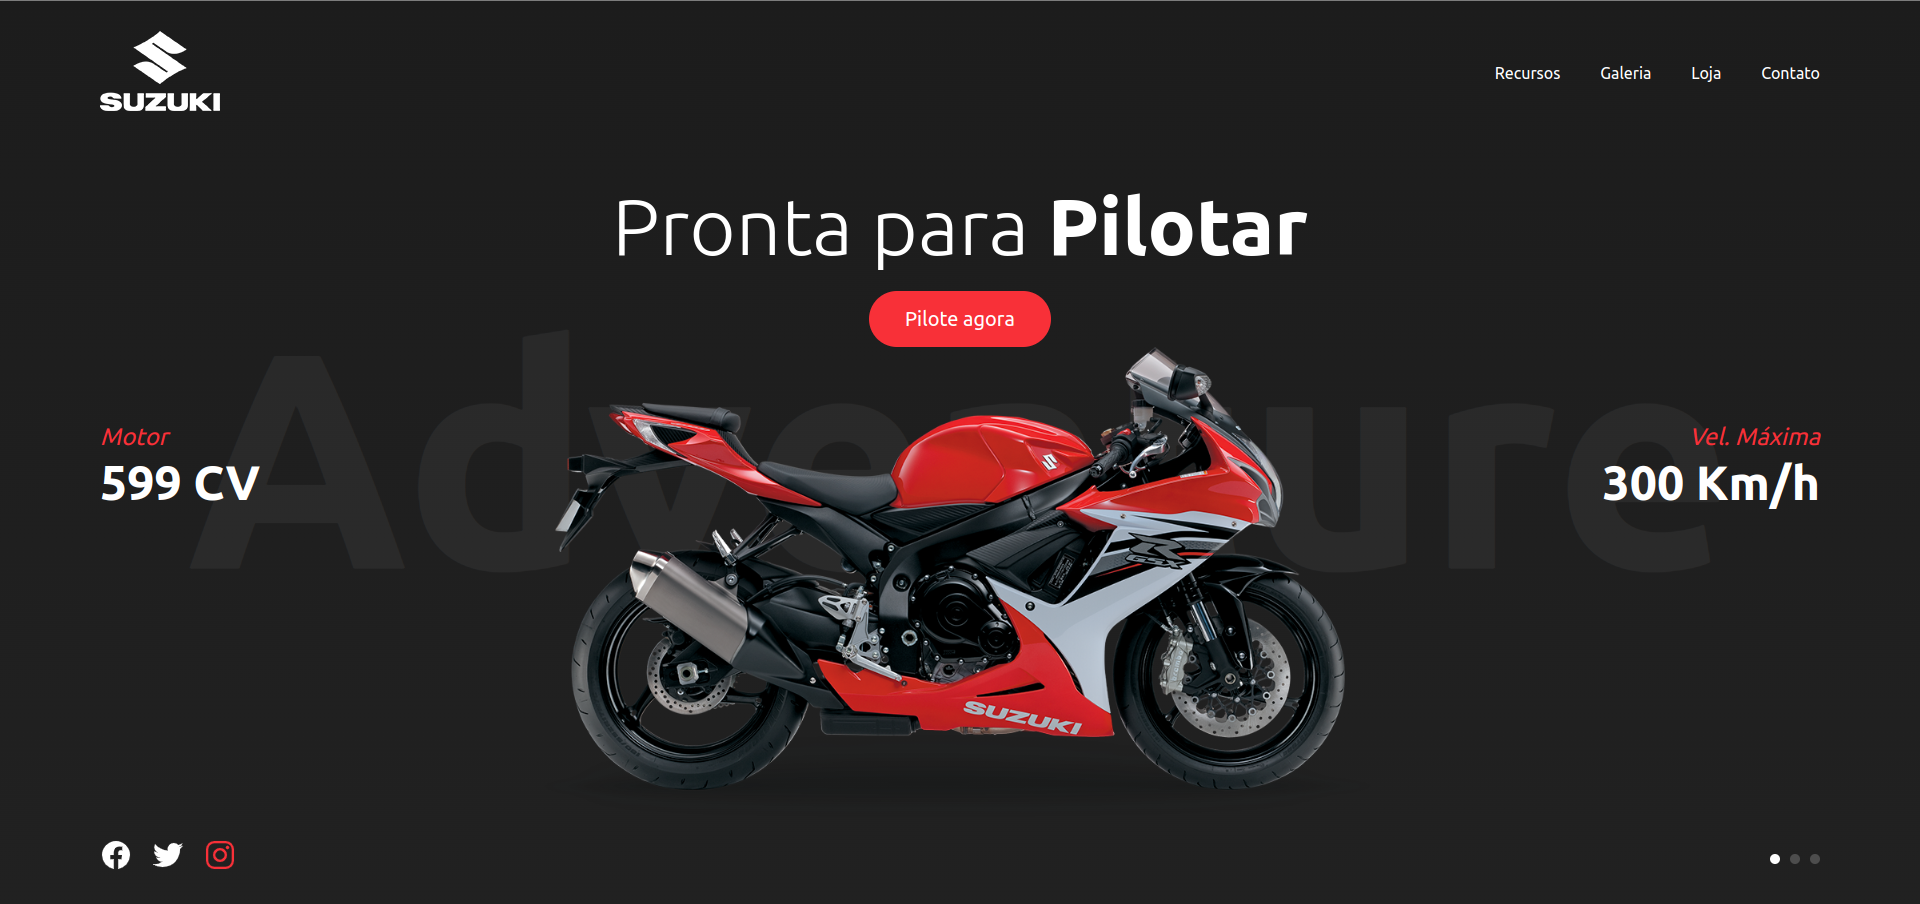
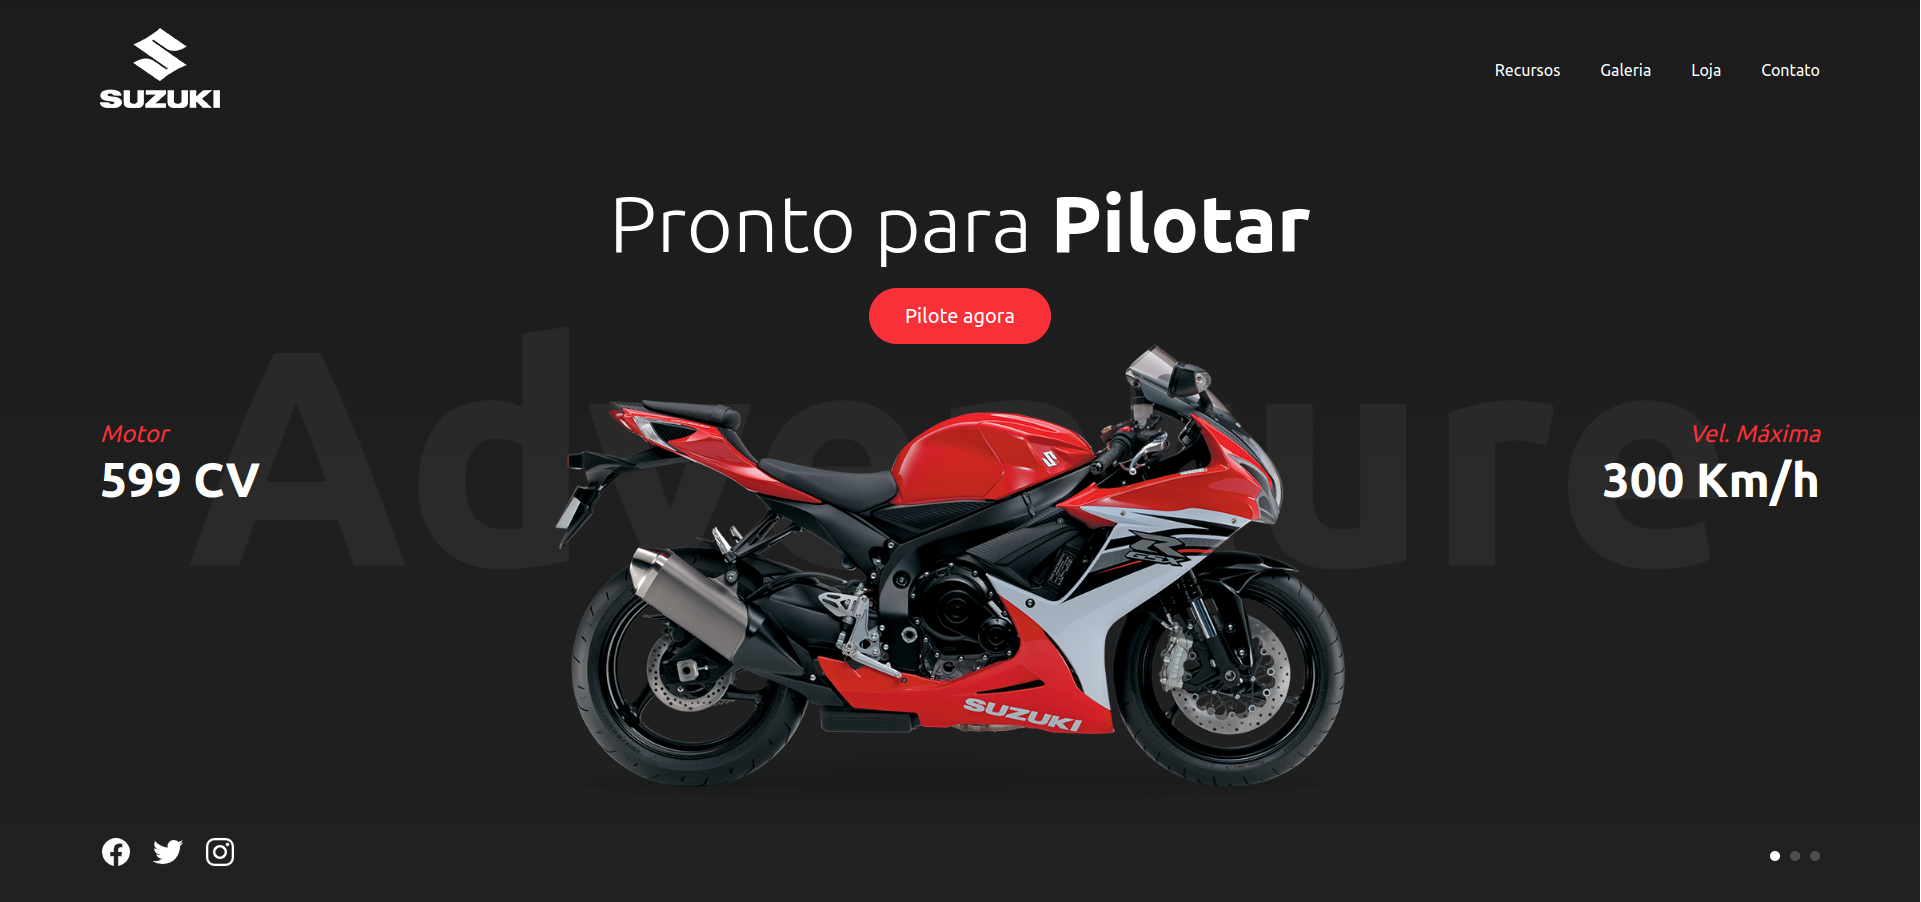
:tada: Suzuki Landing Page finalizada

diff --git a/suzuki/style.css b/suzuki/style.css
@@ -192,3 +192,112 @@ position: absolute;
   font-weight: 400;
   font-style: italic;
 }
+
+/* Responsivo */
+@media (max-width: 991px) {
+  .main {
+    padding: 40px;
+  }
+  header {
+    padding: 20px 40px;
+  }
+  .slider {
+    position: relative;
+    width: 100%;
+    height: 180px;
+  }
+  .slider .slides {
+    position: absolute;
+    top: 50%;
+    padding: 0;
+    flex-direction: column;
+    justify-content: center;
+    align-items: center;
+  }
+  .slider .slides h2{
+    font-size: 2.5em;
+    text-align: center;
+  }
+  .slider .slides h2:last-child {
+    text-align: center;
+  }
+  .bike {
+    max-width: 100%;
+    margin-top: 30px;
+  }
+  .footer {
+    position: relative;
+    margin-top: 50px;
+    flex-direction: column-reverse;
+    padding: 0 40px;
+  }
+  .sci {
+    margin-top: 40px;
+  }
+  .content h2 {
+    font-size: 3em;
+  }
+  .toggle {
+    position: relative;
+    width: 32px;
+    height: 40px;
+    display: flex;
+    justify-content: center;
+    align-items: center;
+    cursor: pointer;
+    z-index: 1000;
+  }
+  .toggle.active {
+    position: fixed;
+    top: 30px;
+    right: 40px;
+  }
+  .toggle::before {
+    content: '';
+    position: absolute;
+    width: 100%;
+    height: 2px;
+    background: var(--white);
+    transform: translateY(-10px);
+    transition: 0.25s;
+    box-shadow: 0 10px 0 var(--white);
+  }
+  .toggle.active::before {
+    transform: translateY(0) rotate(45deg);
+    box-shadow: 0 0 0 var(--white);
+  }
+  .toggle::after {
+    content: '';
+    position: absolute;
+    width: 100%;
+    height: 2px;
+    background: var(--white);
+    transform: translateY(10px);
+    transition: 0.25s;
+  }
+  .toggle.active::after {
+    transform: translateY(0) rotate(-45deg);
+  }
+  .navigation {
+    display: none;
+  }
+  .navigation.active {
+    position: fixed;
+    top: 0;
+    left: 0;
+    width: 100%;
+    height: 100%;
+    display: flex;
+    justify-content: center;
+    align-items: center;
+    flex-direction: column;
+    z-index: 999;
+    background: var(--black);
+  }
+  .navigation li a {
+    font-size: 1.5em;
+    margin: 10px 0;
+    display: inline-block;
+  }
+
+}

diff --git a/suzuki/index.html b/suzuki/index.html
@@ -12,6 +12,7 @@
     <section class="main">
         <header>
             <a class="logo" href="#"><img src="images/logo.png" alt="logo"></a>
+            <div class="toggle"></div>
             <ul class="navigation">
                 <li><a href="#">Recursos</a></li>
                 <li><a href="#">Galeria</a></li>
@@ -21,7 +22,7 @@
         </header>
 
         <div class="content">
-            <h2>Pronta para <span>Pilotar</span></h2>
+            <h2>Pronto para <span>Pilotar</span></h2>
             <a href="#" class="btn">Pilote agora</a>
             <img src="images/bike.png" class="bike" alt="">
         </div>

diff --git a/suzuki/main.js b/suzuki/main.js
@@ -1,3 +1,12 @@
+// Navigation
+const toggle = document.querySelector('.toggle')
+const navigation = document.querySelector('.navigation')
+toggle.onclick = function () {
+    toggle.classList.toggle('active')
+    navigation.classList.toggle('active')
+}
+
+// Slider
 const slides = document.querySelectorAll(".slides")
 const dots = document.querySelectorAll(".dot")
 

diff --git a/README.md b/README.md
@@ -1,4 +1,4 @@
-# Design Websites Responsivos
+# Design de Websites Responsivos
 
 > Projeto destinado à prática no desenvolvimento de websites responsivos de forma rápida e otimizada.
 > Todos os websites estão setorizados em pastas, escolha um e deixe uma crítica contrutiva sobre o que achou. 
@@ -7,7 +7,7 @@
 
 O projeto ainda está em desenvolvimento mas clique nos projetos atuais e verifique-os na web.
 
-- [ ] <a href="https://responsive-websites-design.vercel.app/">Suzuki</a>
+- [x] <a href="https://responsive-websites-design.vercel.app/">Suzuki</a>
 
 ## 🚀 Instalando design-websites-responsivos
 

diff --git a/suzuki/README.md b/suzuki/README.md
@@ -1,14 +1,17 @@
 # Suzuki Bike Landing Page
 Acesse: <a href="https://responsive-websites-design.vercel.app/">Suzuki</a>
 
-<img src="images/print-1.png" alt="print-1">
+<div style="display: flex; gap: 15px">
+    <img src="images/print-1.png" alt="print-1" style="height: 350px">
+    <img src="images/print-mobile.png" alt="print-1" style="height: 350px">
+</div>
 
 ### Ajustes e melhorias
 
-O projeto ainda está em desenvolvimento e as próximas atualizações serão voltadas nas seguintes tarefas:
+O projeto está concluído.
 
 - [x] Desktop
-- [ ] Mobile
+- [x] Mobile
 
 ## 👨🏻💻 Desenvolvedor
 
